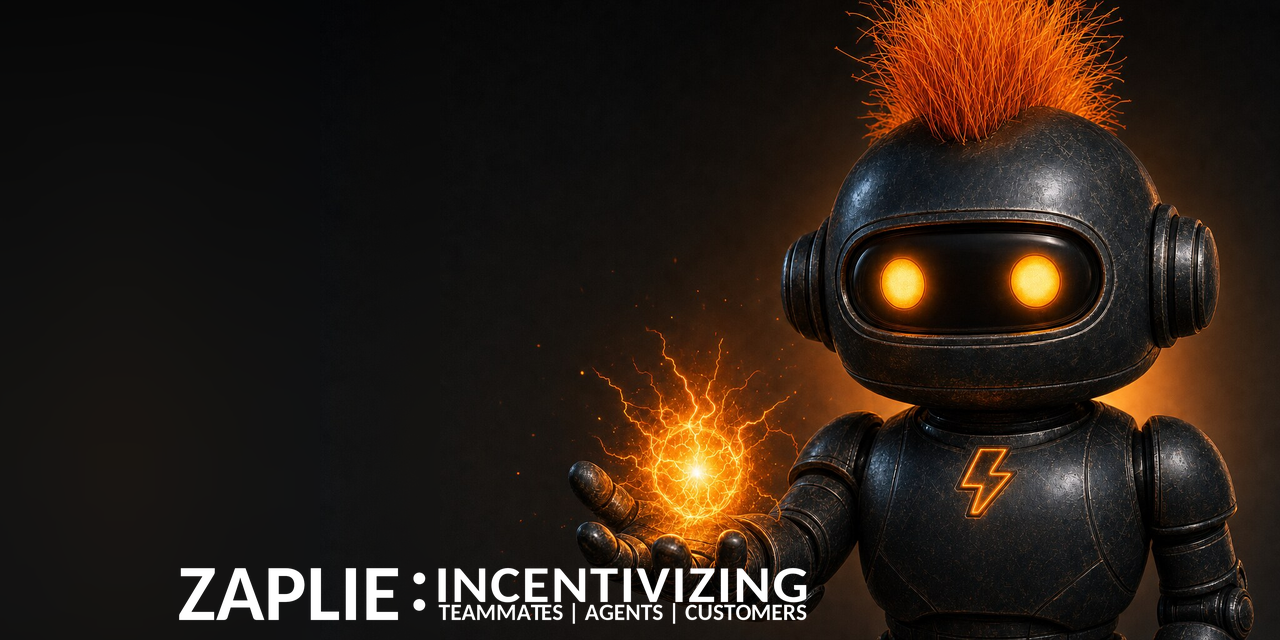
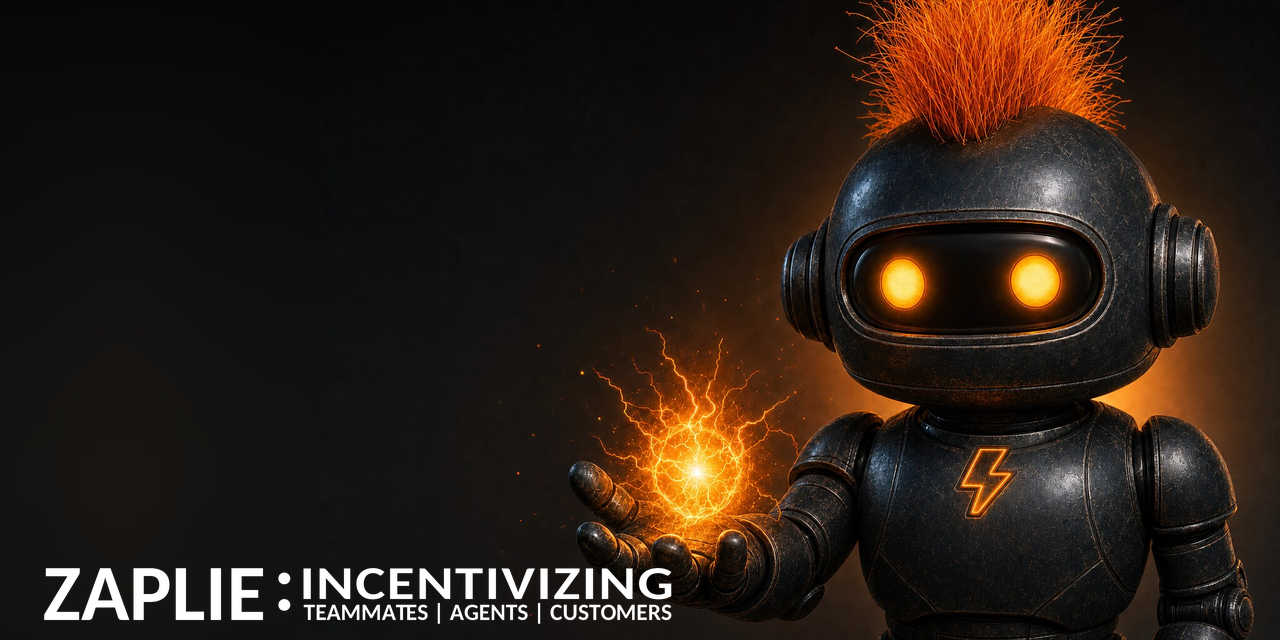
fix: left-align the cover text and widen the gap under INCENTIVIZING

Changed region(s): [[0.0312, 0.875, 0.6562, 0.9688]]

diff --git a/assets/agent/scripts/make_cover_text.py b/assets/agent/scripts/make_cover_text.py
@@ -27,13 +27,13 @@ W, H = 1280, 640
 S = 4                                    # work at 4x for sub-pixel accuracy, then scale down
 
 # From the Photoshop cover (CoverImage.psd and the previous CoverImage.png), in 1x pixels.
-TITLE_LEFT, BASELINE = 179, 620          # left ink edge and baseline of the big title
+TITLE_LEFT, BASELINE = 44, 620           # left ink edge (left-aligned margin) and baseline of the big title
 TITLE_PX = 80                            # title and colon size (320 pt at 25% scale)
 SMALL_PX = 24 * 0.9838                   # small line size (24 pt at 98.4% scale)
 TRACKING = 25 / 1000                     # INCENTIVIZING letter spacing, in em
 COLON_GAP, STACK_GAP = 15, 13            # ink gaps: title to colon, colon to the stacked lines
 COLON_RAISE = 9                          # the colon's bottom sits this far above the baseline
-LINE_GAP = 2                             # gap between INCENTIVIZING and the small line
+LINE_GAP = 5                             # gap between INCENTIVIZING and the small line's capitals
 
 TITLE, SMALL, STACK_TOP = "ZAPLIE", "TEAMMATES | AGENTS | CUSTOMERS", "INCENTIVIZING"
 
